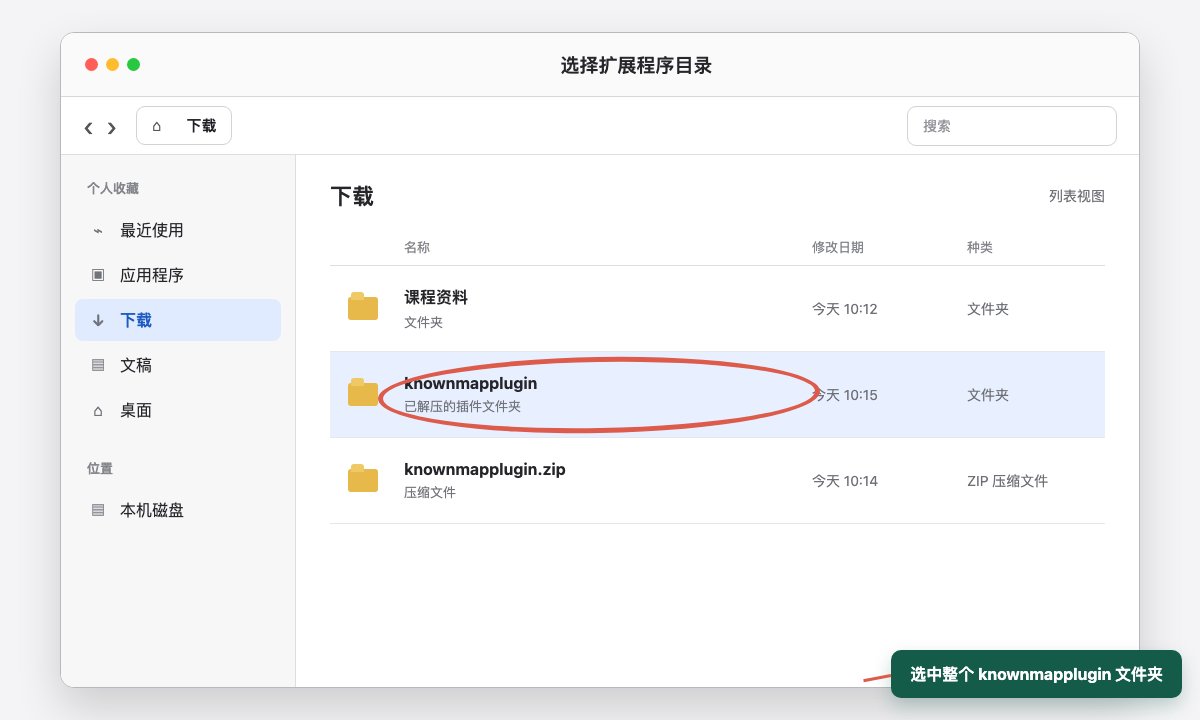
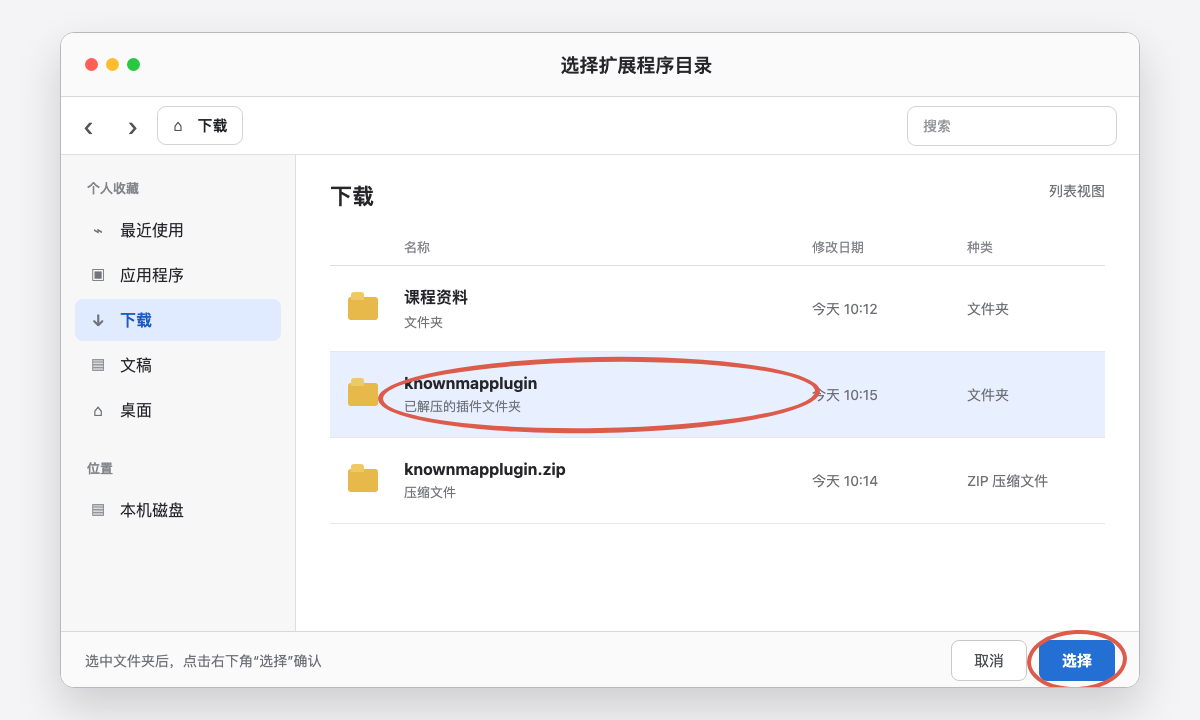
fix: 标注插件文件夹确认按钮

diff --git a/tests/student-plugin-usage-guide.test.js b/tests/student-plugin-usage-guide.test.js
@@ -58,6 +58,7 @@ test('说明页覆盖下载、解压、领取课程和开始学习完整流程',
   assert.match(page, /download="knownmapplugin\.zip"/);
   assert.match(visible, /chrome:\/\/extensions/);
   assert.match(visible, /不要移动或删除这个文件夹/);
+  assert.match(visible, /点击右下角“选择”/);
   assert.match(visible, /课程已保存，可以开始学习/);
 });
 

diff --git a/changelog.md b/changelog.md
@@ -7,7 +7,7 @@ Only record verified changes.
 ### 补充选择解压插件文件夹步骤 — 2026-09-02
 
 - 在学生插件安装流程的“加载未打包的扩展程序”之后增加“选中解压后的插件文件夹”步骤。
-- 新增带红圈的文件选择窗口示意图，明确选择整个 `knownmapplugin` 文件夹，不选择 ZIP 或单个文件，并注明不同操作系统的窗口样式可能不同。
+- 新增带红圈的文件选择窗口示意图，明确选择整个 `knownmapplugin` 文件夹，并用红圈补出右下角“选择”确认按钮；不选择 ZIP 或单个文件，并注明不同操作系统的窗口样式可能不同。
 
 验证：学生说明页回归测试、样式检查、桌面端和窄屏发布预览通过。
 
